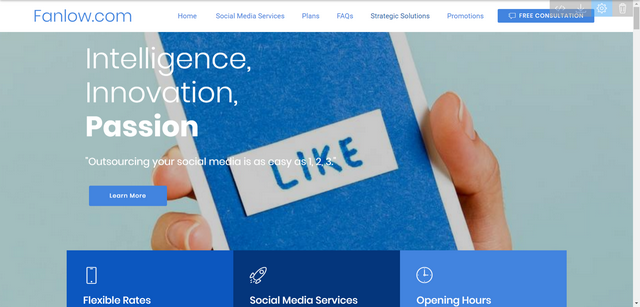
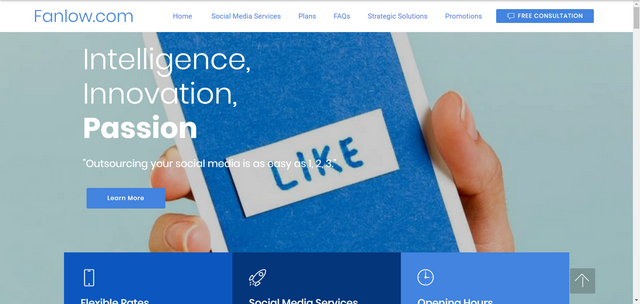
566d

diff --git a/index.html b/index.html
@@ -528,7 +528,7 @@ UA-112503267-1
                 <div data-form-type="formoid">
                     <div class="form-block" data-form-type="formoid">
                         <div data-form-alert="" hidden="">Way to go! Look forward to awesome deals and promotions from us soon! </div>
[2 lines of base64/hex data omitted]
                             <div class="row">
                                 <div class="col-md-6 col-lg-4 mb-4 c-name" data-for="name">
                                     <input type="text" class="form-control input" name="name" data-form-field="Name" placeholder="Your Name" required="" id="name-form7-n">
@@ -810,8 +810,8 @@ UA-112503267-1
                     <span class="mbr-iconfont mbri-rocket"></span>
                 </div>
                 <div class="card-box">
-                    <h4 class="card-title mbr-fonts-style mbr-bold display-5"><font color="#ffffff" style="font-weight: normal;">Animated Logo Design</font></h4>
-                    <p class="mbr-text mbr-fonts-style display-7">Static logos are good but animated logos are beter. Give your logo life. Contact us to get started.</p>
+                    <h4 class="card-title mbr-fonts-style mbr-bold display-5"><font color="#ffffff" style="font-weight: normal;">Animated Videos</font></h4>
+                    <p class="mbr-text mbr-fonts-style display-7">Static Images are good but animated videos are beter. Let's tell your story. Contact us to get started.</p>
                 </div>
             </div>
             <div class="card-item p-3 col-12 col-md-6 col-lg-4">
@@ -886,7 +886,7 @@ UA-112503267-1
                 <div data-form-type="formoid">
                     <div class="form-block" data-form-type="formoid">
                         <div data-form-alert="" hidden="">Thanks for filling out the form! We will contact you soon to discuss your unique marketing needs.  </div>
[2 lines of base64/hex data omitted]
                             <div class="row">
                                 <div class="col-md-6 col-lg-4 mb-4 c-name" data-for="name">
                                     <input type="text" class="form-control input" name="name" data-form-field="Name" placeholder="Your Name" required="" id="name-form7-2h">
@@ -957,7 +957,7 @@ UA-112503267-1
                 <div data-form-type="formoid">
                     <div class="form-block" data-form-type="formoid">
                         <div data-form-alert="" hidden="">Thanks for filling out the form! Consultations can be conduct virtually or depending on your location, face to face meetings are also an option. We'll contact you to discuss.</div>
[2 lines of base64/hex data omitted]
                             <div class="row">
                                 <div class="col-md-12" data-for="email">
                                     <input type="text" class="form-control input" name="email" data-form-field="Email" placeholder="Email" required="" id="email-footer4-m">
